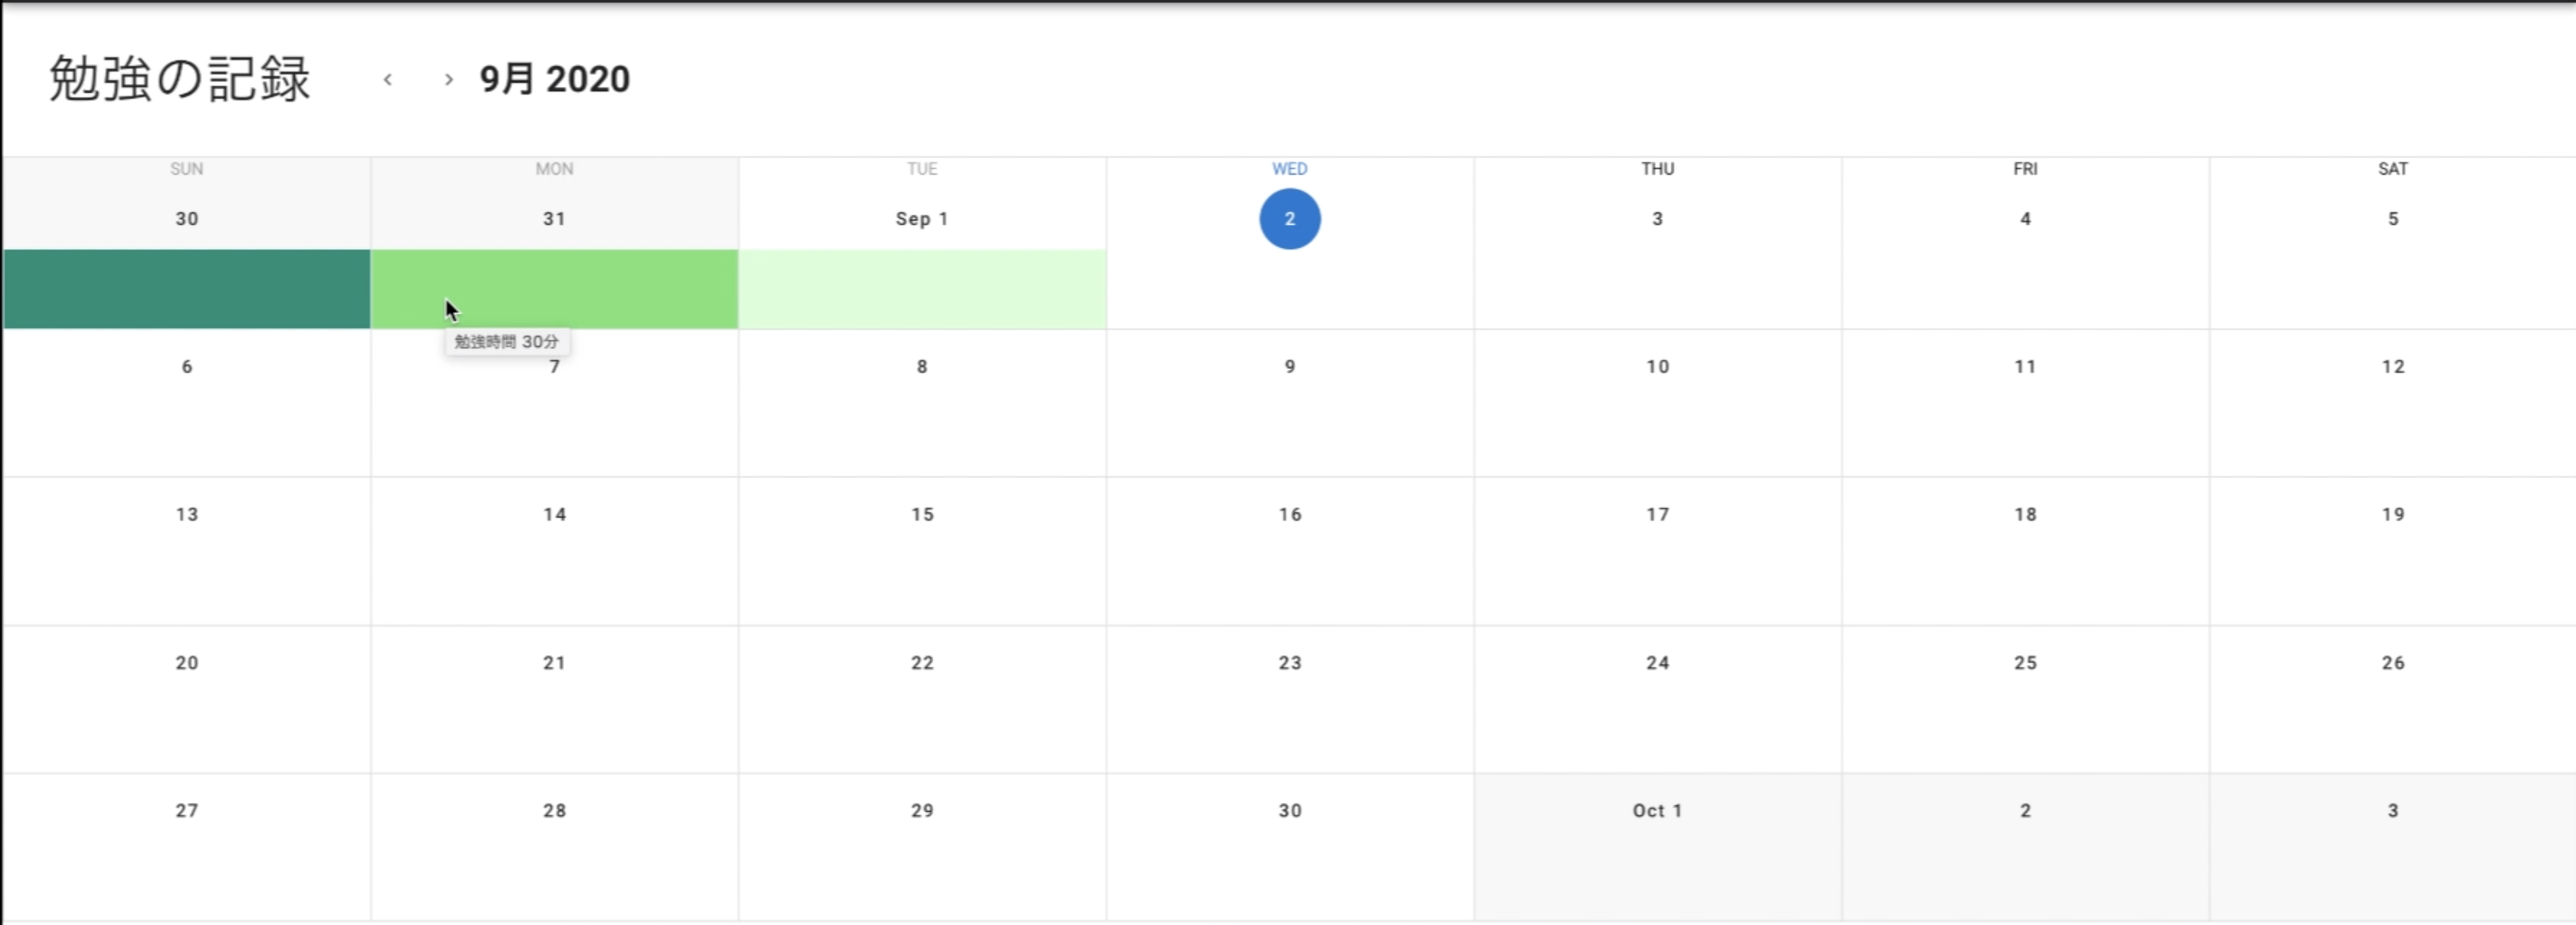
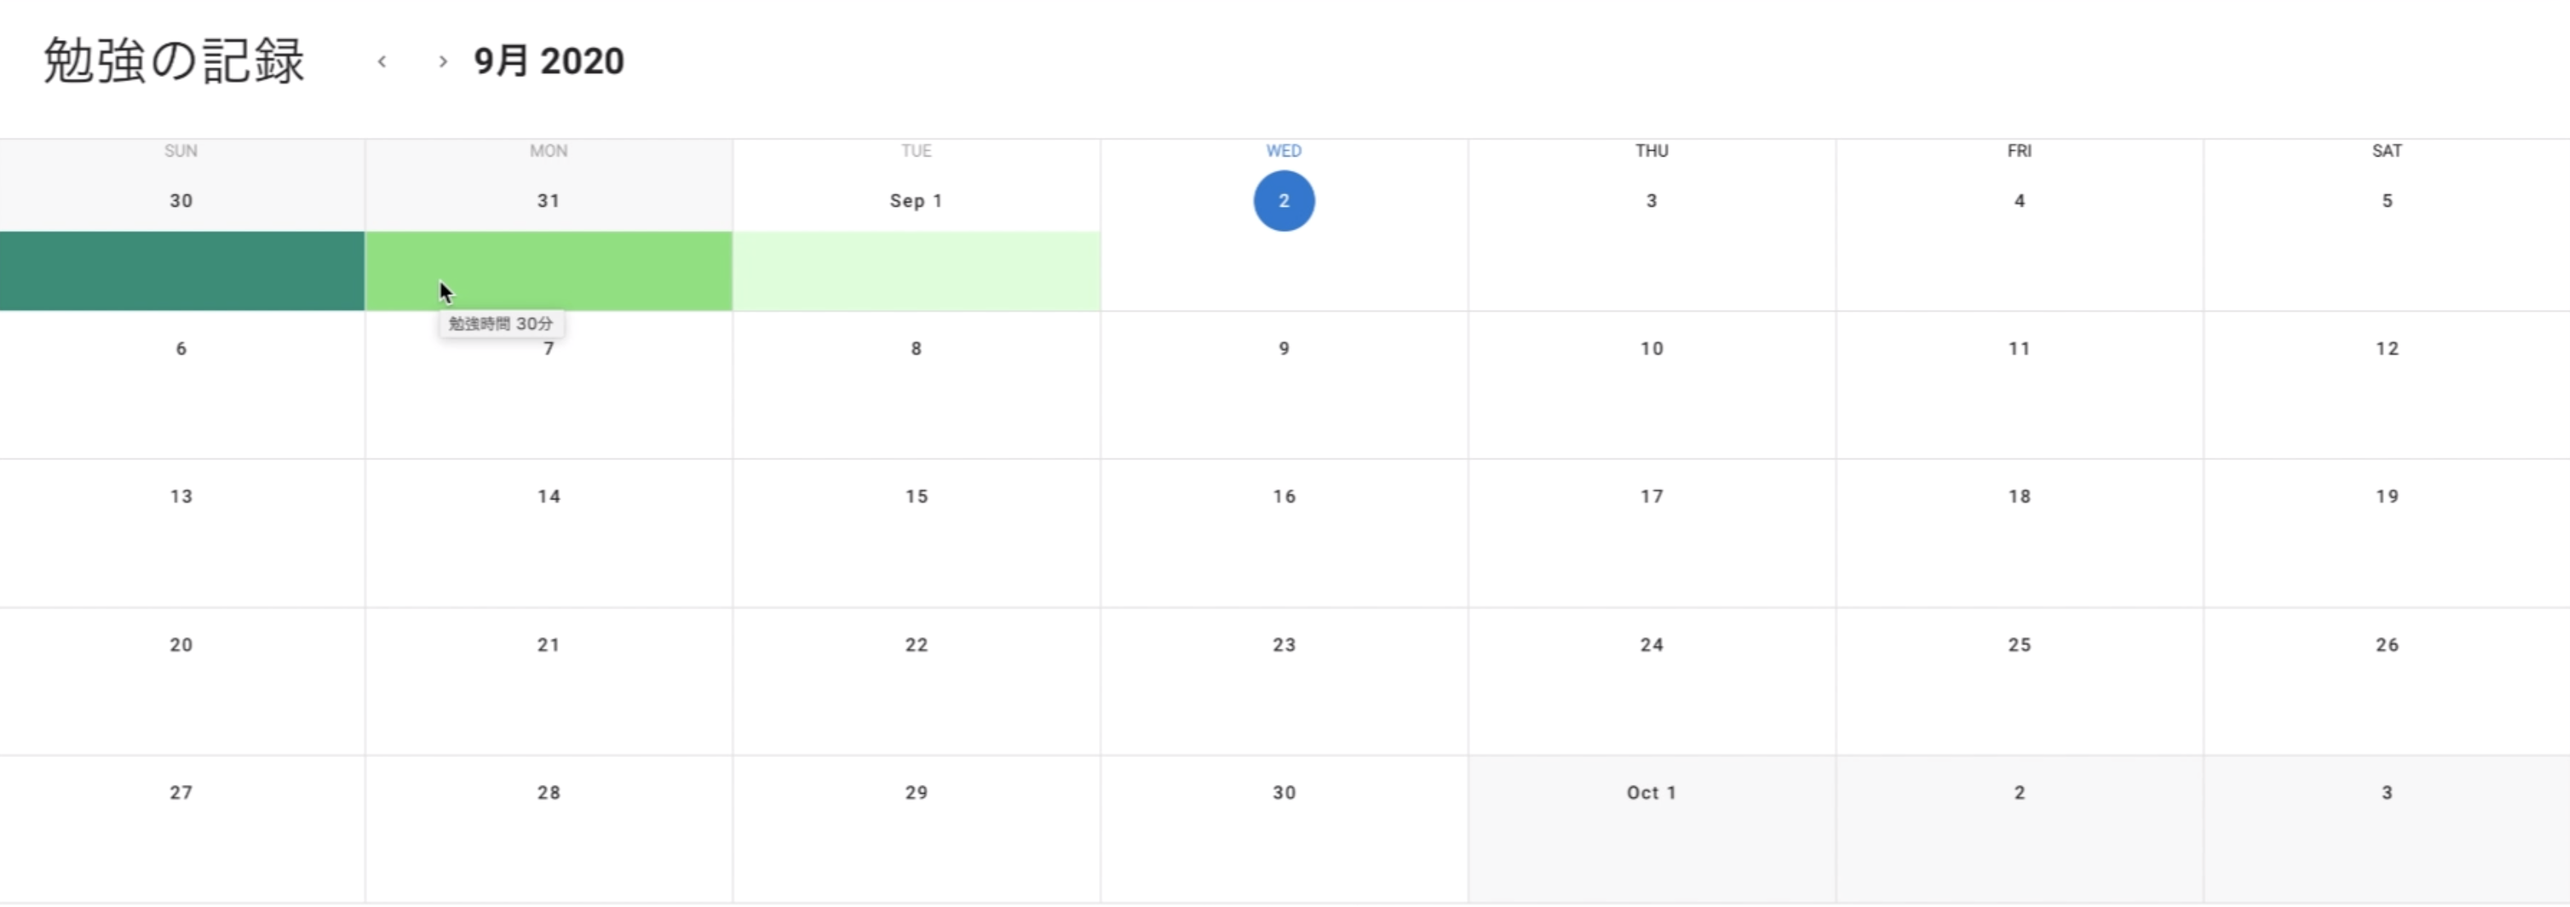
カレンダー画像の大きさ変更

diff --git a/src/views/About.vue b/src/views/About.vue
@@ -33,7 +33,7 @@
             <p>カレンダーは、右上にある自分のアイコンを押すと表示されます。今日の日付には青い円がついています。自習室の滞在時間に応じて、日付のマスの色が変化します。また、色のついている場所にカーソルを当てると勉強時間(自習室の入室時間)が表示されます。</p>
             <p>このカレンダーはみなさんの勉強時間を管理することが可能です！</p>
             <p>毎日勉強して、カレンダーに色をたくさんつけましょう！</p>
-            <img height="200vh" v-bind:src="imgPath" />
+            <img height="400vw" v-bind:src="imgPath" />
 
             <v-card-text class="subtitle-1" v-text="text" style="text-align:left;"></v-card-text>
           </v-col>
@@ -63,8 +63,7 @@
             <p>自習室には鍵をかけることが可能です。合言葉を設定から必要に応じてやってみましょう。</p>
             <p>カメラがついていますが、音声はありません。雑談をしない環境で勉強に集中して取り組むことができます。</p>
             <p>チャット機能がついているので質問したいことがあれば聞いてみましょう。</p>
-            <img height="200vh" v-bind:src="imgPath2" />
-            <img height="200vh" v-bind:src="imgPath3" />
+            <!-- <img height="350vw" v-bind:src="imgPath2" /> -->
             <v-card-text class="subtitle-1" v-text="text" style="text-align:left;"></v-card-text>
           </v-col>
         </v-row>
@@ -109,11 +108,10 @@
 // @ is an alias to /src
 import { mapActions } from "vuex";
 export default {
-  data () {
+  data() {
     return {
       imgPath: require("@/assets/calender.png"),
       imgPath2: require("@/assets/chat.png"),
-      imgPath3: require("@/assets/word.png"),
       features: [
         {
           icon: "mdi-calendar-text",
